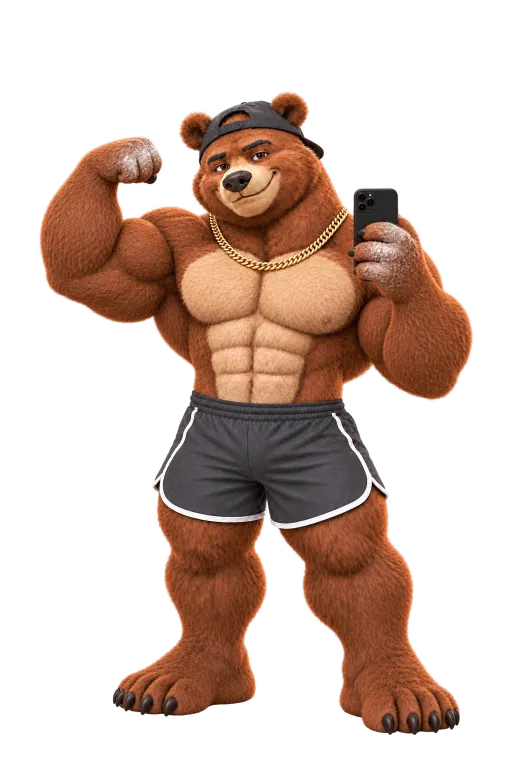
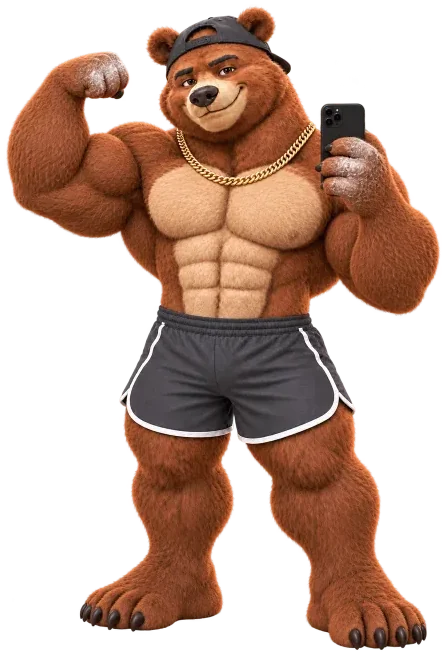
Crop empty space off the bear art and size each bear by its outline
The art sits on a 512x768 canvas where the small and medium bears fill
only part of it, so equal heights showed bears at very different sizes.
The two small cards now put the bear beside the text from 520px up.
[skip deploy]

diff --git a/landing/b/index.html b/landing/b/index.html
@@ -203,9 +203,9 @@
     transform: translateX(-50%);
     filter: drop-shadow(0 12px 14px rgba(0, 0, 0, 0.35));
   }
-  .scene .bear.back { left: 68%; bottom: 6%; height: 56%; }
-  .scene .bear.front { left: 32%; bottom: 2%; height: 62%; }
-  .scene .bear.solo { left: 50%; bottom: 3%; height: 62%; }
+  .scene .bear.back { left: 68%; bottom: 7%; height: 50%; }
+  .scene .bear.front { left: 32%; bottom: 3%; height: 46%; }
+  .scene .bear.solo { left: 50%; bottom: 4%; height: 56%; }
 
   .journey { padding-block: 0 72px; }
   .journey h2 { font-size: clamp(36px, 7vw, 56px); text-transform: uppercase; line-height: 0.98; }
@@ -238,15 +238,15 @@
   }
   .cell h3 { font-size: 32px; line-height: 1; text-transform: uppercase; }
   .cell p { margin: 10px 0 0; max-width: 32ch; }
-  .cell img { align-self: end; justify-self: end; height: 220px; width: auto; margin-top: 12px; }
+  .cell img { align-self: end; justify-self: end; height: 200px; width: auto; margin: 16px 0 24px; }
   .cell.one { background: var(--forest); color: var(--cream); }
   .cell.one p { color: #cfd9cf; }
-  .cell.one img.tall { height: 300px; }
-  .levels { align-self: end; display: grid; gap: 10px; margin-top: 16px; }
-  .levels div { display: flex; align-items: flex-end; justify-content: space-between; }
+  .cell.one img.tall { height: 300px; justify-self: center; }
+  .levels { align-self: end; display: grid; gap: 20px; margin: 20px 0 24px; }
+  .levels div { display: flex; align-items: flex-end; justify-content: space-around; }
   .levels img { margin: 0; width: auto; }
-  .levels img:nth-child(1) { height: 92px; }
-  .levels img:nth-child(2) { height: 140px; }
+  .levels img:nth-child(1) { height: 76px; }
+  .levels img:nth-child(2) { height: 132px; }
   .levels img:nth-child(3) { height: 176px; }
   .cell.two { background: var(--tint-honey); }
   .cell.three { background: var(--tint-sage); }
@@ -259,9 +259,9 @@
   .closing label { color: var(--cream); }
   .closing .msg { color: #ffb4a8; }
   .closing .thanks { background: var(--forest-deep); color: #8fe3bb; border-color: #24543d; }
-  .duo { display: flex; justify-content: center; align-items: flex-end; align-self: end; }
-  .duo img { height: 300px; width: auto; }
-  .duo img + img { margin-left: -48px; }
+  .duo { display: flex; justify-content: center; align-items: flex-end; align-self: end; gap: 4px; }
+  .duo img { height: 280px; width: auto; }
+  .duo img + img { height: 262px; }
 
   footer { padding-block: 32px 48px; color: var(--muted); font-size: 15px; display: flex; flex-wrap: wrap; justify-content: space-between; gap: 8px 24px; }
   footer a { color: var(--text); font-weight: 600; }
@@ -269,6 +269,8 @@
   @media (min-width: 520px) {
     .row { flex-direction: row; }
     .row input { flex: 1 1 auto; }
+    .cell.two, .cell.three { grid-template-columns: 1fr auto; grid-template-rows: none; align-items: end; gap: 16px; min-height: 0; }
+    .cell.two img, .cell.three img { margin-top: 0; }
   }
   @media (min-width: 860px) {
     .hero { grid-template-columns: 1.15fr 0.85fr; padding-block: 40px 88px; }
@@ -277,9 +279,11 @@
     .trip { grid-auto-flow: row; grid-template-columns: repeat(3, 1fr); overflow: visible; }
     .cell.one { grid-row: span 2; min-height: 620px; }
     .closing .wrap { grid-template-columns: 1.2fr 0.8fr; padding-block: 72px 0; }
-    .duo img { height: 400px; }
-    .levels img:nth-child(1) { height: 120px; }
-    .levels img:nth-child(2) { height: 190px; }
+    .duo img { height: 380px; }
+    .duo img + img { height: 356px; }
+    .cell.one img.tall { height: 420px; }
+    .levels img:nth-child(1) { height: 100px; }
+    .levels img:nth-child(2) { height: 180px; }
     .levels img:nth-child(3) { height: 240px; }
   }
   @media (prefers-reduced-motion: no-preference) {
@@ -316,8 +320,8 @@
     <div class="scene">
       <img class="gym" src="gym.webp" alt="" width="768" height="1152">
       <div class="board" aria-hidden="true"><span class="small">Chicken rice bowl</span><span class="big">46 g protein</span><span class="small">710 kcal</span></div>
-      <img class="bear back" src="hero-male.webp" alt="" width="512" height="768">
-      <img class="bear front" src="hero-female.webp" alt="Two beBEAR bears holding bowls of food in the gym" width="512" height="768">
+      <img class="bear back" src="hero-male.webp" alt="">
+      <img class="bear front" src="hero-female.webp" alt="Two beBEAR bears holding bowls of food in the gym">
     </div>
   </section>
 
@@ -326,15 +330,15 @@
     <div class="bento">
       <article class="cell one">
         <div><h3>Snap your meal, get the macros.</h3><p>Take a photo of your food. AI counts the protein and calories for you.</p></div>
-        <img class="tall" src="card-1.webp" alt="The bear holding a big bowl of food" width="512" height="768" loading="lazy">
+        <img class="tall" src="card-1.webp" alt="The bear holding a big bowl of food" loading="lazy">
       </article>
       <article class="cell two">
         <div><h3>A plan that fits you.</h3><p>Gym, home or street workout. Go for size, strength or both.</p></div>
-        <img src="card-2.webp" alt="The bear lifting a barbell" width="512" height="768" loading="lazy">
+        <img src="card-2.webp" alt="The bear lifting a barbell" loading="lazy">
       </article>
       <article class="cell three">
         <div><h3>Free forever to track.</h3><p>Log every lift and every meal. Simple screens, no clutter.</p></div>
-        <img src="card-3.webp" alt="The bear lifting a barbell with a towel on her shoulder" width="512" height="768" loading="lazy">
+        <img src="card-3.webp" alt="The bear lifting a barbell with a towel on her shoulder" loading="lazy">
       </article>
     </div>
   </section>
@@ -356,8 +360,8 @@
         </form>
       </div>
       <div class="duo">
-        <img src="closing-male.webp" alt="" width="512" height="768" loading="lazy">
-        <img src="closing-female.webp" alt="" width="512" height="768" loading="lazy">
+        <img src="closing-male.webp" alt="" loading="lazy">
+        <img src="closing-female.webp" alt="" loading="lazy">
       </div>
     </div>
   </section>
